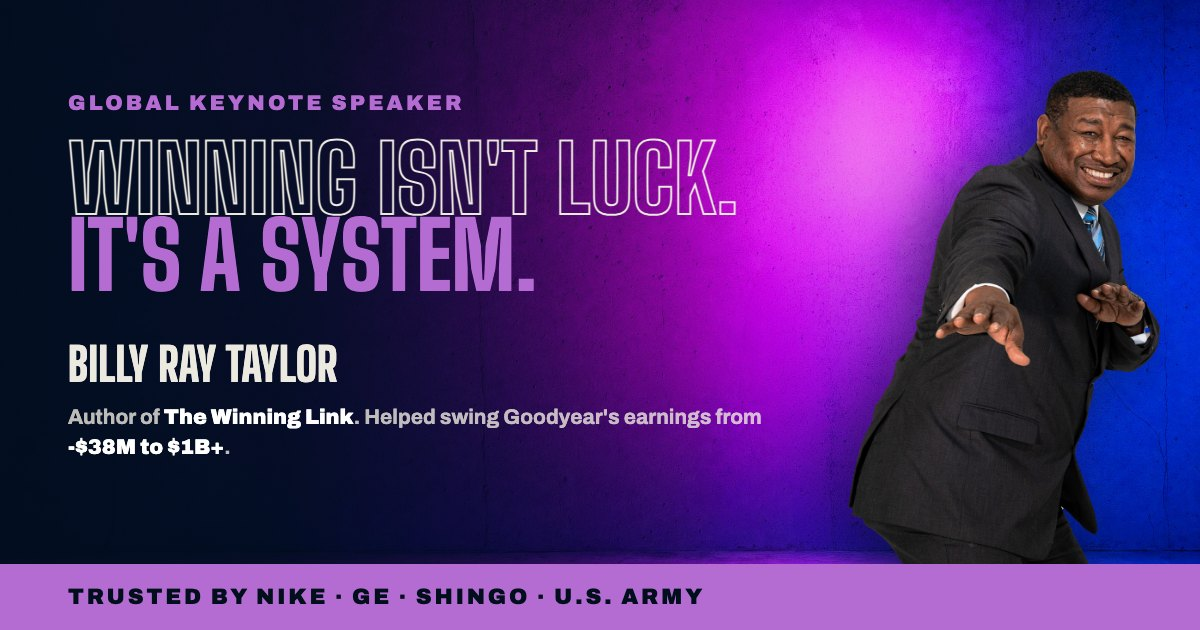
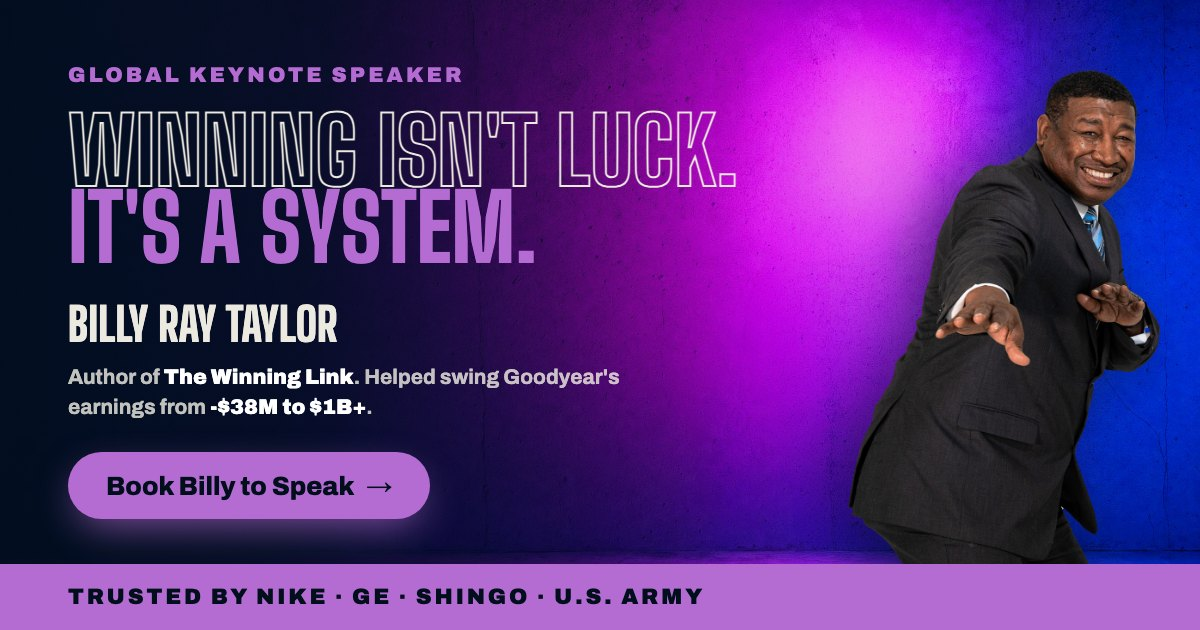
Senior polish pass across the site; OG card rebuilt around a CTA
Navigation: scrollspy highlights the active section with a purple dot;
skip-to-content link for keyboard users; theme-color meta tints mobile
chrome to the ink.

Interaction system: primary CTAs carry a purple glow and lift 2px on
hover before the press-down; playbook cards lift with their own accent
glow; the book straightens from its 2deg tilt on hover; marquee pauses
on hover and its loop no longer jumps half a gap (margins instead of
flex gap, so -50% lands exactly on the set boundary).

Hero: a breathing radial glow behind Billy, disabled under reduced
motion. Testimonials: swipe/drag on touch with velocity-based dismissal
and grab cursors, and arrow-key navigation, both taking permanent
control from the autoplay.

QA lows closed: utility separator contrast, headshot orphan at narrow
widths (2-up grid), accordion title overflow above 1200px.

Hero wall image preloaded. Verified the page renders complete with
JavaScript disabled.

OG image rebuilt with a conversion path: eyebrow, split headline, name,
credential line, and a purple Book Billy to Speak pill, trust band
below, Billy on the right.

Changed region(s): [[0.0308, 0.0905, 0.6475, 0.8746]]

diff --git a/css/style.css b/css/style.css
@@ -100,6 +100,20 @@ section { scroll-margin-top: 7.5rem; }
   letter-spacing: 0.002em;
 }
 
+.skip-link {
+  position: fixed;
+  top: -4rem;
+  left: 1rem;
+  z-index: 100;
+  background: var(--purple);
+  color: var(--ink);
+  font-weight: 700;
+  padding: 0.8rem 1.4rem;
+  border-radius: 999px;
+  transition: top 200ms var(--ease-out);
+}
+.skip-link:focus-visible { top: 1rem; }
+
 .visually-hidden {
   position: absolute;
   width: 1px; height: 1px;
@@ -184,10 +198,12 @@ section { scroll-margin-top: 7.5rem; }
   border: 2px solid transparent;
   cursor: pointer;
   text-decoration: none;
-  transition: transform 160ms var(--ease-out), background-color 200ms ease, border-color 200ms ease, color 200ms ease;
+  transition: transform 180ms var(--ease-out), background-color 200ms ease, border-color 200ms ease, color 200ms ease, box-shadow 250ms ease;
   will-change: transform;
 }
-.btn:active { transform: scale(0.97); }
+.btn:active { transform: translateY(0) scale(0.97); }
+.btn-accent { box-shadow: 0 10px 28px -10px rgba(181, 108, 210, 0.55); }
+.btn-paper { box-shadow: 0 10px 28px -12px rgba(1, 15, 29, 0.6); }
 
 .btn-accent { background: var(--purple); color: var(--ink); }
 .btn-paper { background: var(--paper); color: var(--ink); }
@@ -196,8 +212,15 @@ section { scroll-margin-top: 7.5rem; }
 .btn-ghost-paper { background: transparent; color: var(--txt-on-ink); border-color: rgba(236, 233, 224, 0.4); }
 
 @media (hover: hover) and (pointer: fine) {
-  .btn-accent:hover { background: var(--purple-hover); }
-  .btn-paper:hover { background: #FFFFFF; }
+  .btn-accent:hover {
+    background: var(--purple-hover);
+    transform: translateY(-2px);
+    box-shadow: 0 16px 36px -10px rgba(181, 108, 210, 0.75);
+  }
+  .btn-paper:hover {
+    background: #FFFFFF;
+    transform: translateY(-2px);
+  }
   .btn-ink:hover { background: var(--ink-3); }
   .btn-ghost-ink:hover { border-color: var(--ink); background: rgba(1, 15, 29, 0.05); }
   .btn-ghost-paper:hover { border-color: var(--txt-on-ink); background: rgba(236, 233, 224, 0.08); }
@@ -234,7 +257,7 @@ button:focus-visible {
 }
 .utility a { color: rgba(236, 233, 224, 0.82); }
 .utility .u-left { display: flex; gap: 1.1rem; align-items: center; }
-.utility .u-sep { opacity: 0.4; }
+.utility .u-sep { opacity: 0.6; }
 .utility .u-tag { color: var(--purple); font-weight: 700; letter-spacing: 0.04em; }
 @media (hover: hover) and (pointer: fine) {
   .utility a:hover { color: #FFFFFF; }
@@ -289,6 +312,23 @@ button:focus-visible {
 }
 @media (hover: hover) and (pointer: fine) {
   .nav-links a:not(.btn):hover { color: var(--purple); }
+}
+.nav-links a:not(.btn).active { color: var(--purple); }
+.nav-links a:not(.btn)::after {
+  content: "";
+  position: absolute;
+  left: 50%;
+  bottom: -0.55rem;
+  width: 4px;
+  height: 4px;
+  border-radius: 50%;
+  background: var(--purple);
+  transform: translateX(-50%) scale(0);
+  transition: transform 250ms var(--ease-out);
+}
+.nav-links a:not(.btn).active::after { transform: translateX(-50%) scale(1); }
+@media (hover: hover) and (pointer: fine) {
+  .nav-links-spacer-unused { display: none; }
 }
 .nav .btn { padding: 0.65rem 1.2rem; font-size: 0.92rem; }
 
@@ -388,6 +428,22 @@ button:focus-visible {
   will-change: transform;
   pointer-events: none;
 }
+.hero-figure::before {
+  content: "";
+  position: absolute;
+  inset: -12% -20%;
+  z-index: -1;
+  background: radial-gradient(50% 42% at 55% 46%, rgba(181, 108, 210, 0.5), rgba(143, 240, 220, 0.12) 60%, transparent 74%);
+  animation: hero-breathe 5.5s ease-in-out infinite alternate;
+  pointer-events: none;
+}
+@keyframes hero-breathe {
+  from { opacity: 0.65; transform: scale(1); }
+  to { opacity: 1; transform: scale(1.06); }
+}
+@media (prefers-reduced-motion: reduce) {
+  .hero-figure::before { animation: none; }
+}
 .hero-billy {
   height: 100%;
   width: auto;
@@ -481,9 +537,12 @@ button:focus-visible {
 .marquee-track {
   display: flex;
   align-items: center;
-  gap: clamp(3rem, 6vw, 5.5rem);
   width: max-content;
   animation: marquee 34s linear infinite;
+}
+.marquee-track img { margin-right: clamp(3rem, 6vw, 5.5rem); }
+@media (hover: hover) and (pointer: fine) {
+  .marquee:hover .marquee-track { animation-play-state: paused; }
 }
 .marquee-track img {
   height: clamp(2rem, 3vw, 2.6rem);
@@ -736,6 +795,12 @@ button:focus-visible {
   border-radius: 18px;
   overflow: hidden;
   background: linear-gradient(180deg, rgba(11, 24, 38, 0.92), rgba(4, 11, 19, 0.92));
+  transition: transform 300ms var(--ease-out), box-shadow 300ms ease;
+}
+@media (hover: hover) and (pointer: fine) {
+  .play-card:hover { transform: translateY(-3px); }
+  .pc-problem:hover { box-shadow: 0 30px 70px -26px rgba(181, 108, 210, 0.65); }
+  .pc-payoff:hover { box-shadow: 0 30px 70px -26px rgba(72, 167, 155, 0.7); }
 }
 .pc-problem {
   border: 1px solid rgba(181, 108, 210, 0.42);
@@ -870,10 +935,9 @@ button:focus-visible {
 .acc-content .acc-title {
   font-family: var(--font-display);
   text-transform: uppercase;
-  font-size: clamp(1.5rem, 2.4vw, 2.1rem);
+  font-size: clamp(1.4rem, 2vw, 1.9rem);
   margin-bottom: 0.7rem;
   color: var(--acc-c, var(--purple));
-  white-space: nowrap;
   font-weight: 800;
 }
 .acc-content p { color: var(--txt-on-ink-muted); font-size: 1rem; max-width: 34ch; margin: 0; }
@@ -1111,7 +1175,9 @@ button:focus-visible {
 }
 .raves-arrow:active { transform: scale(0.94); }
 
-.raves-viewport { overflow: hidden; }
+.raves-viewport { overflow: hidden; touch-action: pan-y; cursor: grab; }
+.raves-viewport.dragging { cursor: grabbing; }
+.raves-viewport.dragging .raves-track { transition: none; }
 .raves-track {
   display: flex;
   transition: transform 620ms var(--ease-in-out);
@@ -1178,6 +1244,10 @@ button:focus-visible {
   padding: clamp(1.5rem, 3vw, 2.75rem);
   box-shadow: 0 32px 72px -30px rgba(1, 15, 29, 0.35);
   rotate: 2deg;
+  transition: rotate 450ms var(--ease-out), box-shadow 450ms ease;
+}
+@media (hover: hover) and (pointer: fine) {
+  .book-shot:hover { rotate: 0deg; box-shadow: 0 40px 90px -30px rgba(1, 15, 29, 0.55); }
 }
 .book-shot img { width: 100%; }
 
@@ -1322,6 +1392,9 @@ button:focus-visible {
   gap: 1.2rem;
   max-width: 52rem;
 }
+@media (max-width: 700px) {
+  .headshot-row { grid-template-columns: repeat(2, 1fr); }
+}
 .headshot-row a {
   border-radius: 18px;
   overflow: hidden;
@@ -1360,6 +1433,10 @@ button:focus-visible {
     linear-gradient(150deg, var(--purple-deep) 0%, #3B2A66 52%, var(--ink-deep) 100%);
   padding: clamp(6.5rem, 12vw, 11rem) 0;
   text-align: center;
+}
+.book-billy .cta-win {
+  color: var(--mint);
+  text-shadow: 0 0 44px rgba(143, 240, 220, 0.45);
 }
 .book-billy h2 {
   font-size: clamp(4rem, 11vw, 9.5rem);

diff --git a/js/main.js b/js/main.js
@@ -45,6 +45,31 @@
     }
   });
 
+  /* ---------- Scrollspy ---------- */
+  var spyLinks = Array.prototype.filter.call(
+    document.querySelectorAll('.nav-links a[href^="#"]'),
+    function (a) { return !a.classList.contains("btn"); }
+  );
+  var spyMap = {};
+  spyLinks.forEach(function (a) {
+    var sec = document.querySelector(a.getAttribute("href"));
+    if (sec) spyMap[a.getAttribute("href").slice(1)] = a;
+  });
+  if ("IntersectionObserver" in window) {
+    var spy = new IntersectionObserver(function (entries) {
+      entries.forEach(function (en) {
+        if (!en.isIntersecting) return;
+        spyLinks.forEach(function (a) { a.classList.remove("active"); });
+        var link = spyMap[en.target.id];
+        if (link) link.classList.add("active");
+      });
+    }, { rootMargin: "-35% 0px -55% 0px" });
+    Object.keys(spyMap).forEach(function (id) {
+      var sec = document.getElementById(id);
+      if (sec) spy.observe(sec);
+    });
+  }
+
   /* ---------- Horizontal accordion (the 3 Deliberates) ---------- */
   var slices = Array.prototype.slice.call(document.querySelectorAll(".acc-slice"));
   function openSlice(target) {
@@ -98,6 +123,46 @@
   ravesSection.addEventListener("mouseleave", resumeAuto);
   ravesSection.addEventListener("focusin", pauseAuto);
   ravesSection.addEventListener("focusout", resumeAuto);
+  ravesSection.addEventListener("keydown", function (e) {
+    if (e.key !== "ArrowLeft" && e.key !== "ArrowRight") return;
+    userControlled = true;
+    clearInterval(autoTimer);
+    counter.setAttribute("aria-live", "polite");
+    goTo(current + (e.key === "ArrowRight" ? 1 : -1));
+    e.preventDefault();
+  });
+
+  /* touch / drag */
+  var viewport = document.querySelector(".raves-viewport");
+  var dragX = null, dragT = 0;
+  viewport.addEventListener("pointerdown", function (e) {
+    if (e.pointerType === "mouse" && e.button !== 0) return;
+    dragX = e.clientX;
+    dragT = Date.now();
+    viewport.classList.add("dragging");
+    viewport.setPointerCapture(e.pointerId);
+  });
+  viewport.addEventListener("pointermove", function (e) {
+    if (dragX === null) return;
+    var dx = e.clientX - dragX;
+    track.style.transform = "translateX(calc(-" + current * 100 + "% + " + dx + "px))";
+  });
+  function endDrag(e) {
+    if (dragX === null) return;
+    var dx = e.clientX - dragX;
+    var vel = Math.abs(dx) / Math.max(Date.now() - dragT, 1);
+    viewport.classList.remove("dragging");
+    dragX = null;
+    if (Math.abs(dx) > 60 || vel > 0.5) {
+      userControlled = true;
+      clearInterval(autoTimer);
+      goTo(current + (dx < 0 ? 1 : -1));
+    } else {
+      goTo(current);
+    }
+  }
+  viewport.addEventListener("pointerup", endDrag);
+  viewport.addEventListener("pointercancel", endDrag);
   restartAuto();
 
   /* ---------- Video: click to load ---------- */

diff --git a/index.html b/index.html
@@ -19,9 +19,11 @@
   <meta name="twitter:description" content="Author of The Winning Link. Trusted by Nike, GE, SHINGO, and the U.S. Army. Book Billy for your next event.">
   <meta name="twitter:image" content="https://taylormadecreative.github.io/billy-ray-taylor/assets/og-image.jpg">
 
+  <meta name="theme-color" content="#010F1D">
   <link rel="icon" type="image/svg+xml" href="favicon.svg">
   <link rel="apple-touch-icon" href="apple-touch-icon.png">
 
+  <link rel="preload" href="assets/hero-wall.jpg" as="image">
   <link rel="preload" href="assets/fonts/BigShouldersDisplay-var.woff2" as="font" type="font/woff2" crossorigin>
   <link rel="preload" href="assets/fonts/Archivo-var.woff2" as="font" type="font/woff2" crossorigin>
   <link rel="stylesheet" href="css/style.css">
@@ -44,6 +46,8 @@
   </script>
 </head>
 <body>
+
+  <a class="skip-link" href="#main">Skip to content</a>
 
   <div class="utility" id="top">
     <div class="utility-inner">
@@ -74,7 +78,7 @@
     </div>
   </header>
 
-  <main>
+  <main id="main">
 
     <!-- Attention -->
     <section class="hero">
@@ -435,7 +439,7 @@
     <!-- Action: big CTA -->
     <section class="book-billy" id="book-billy">
       <div class="container">
-        <h2 class="display" data-reveal>Ready to win?</h2>
+        <h2 class="display" data-reveal>Ready to <span class="cta-win">win?</span></h2>
         <p data-reveal>Book Billy Ray Taylor for your next conference, kickoff, or leadership summit. He's ready to help your organization win.</p>
         <div class="book-billy-ctas" data-reveal>
           <a class="btn btn-paper" href="mailto:info@linkedxl.com?subject=Booking%20Inquiry%3A%20Billy%20Ray%20Taylor">Start the Conversation</a>

diff --git a/og/og.html b/og/og.html
@@ -37,7 +37,7 @@
   .content {
     position: absolute;
     left: 68px;
-    top: 92px;
+    top: 64px;
     width: 720px;
     z-index: 2;
   }
@@ -62,7 +62,7 @@
   }
   h1 .l2 { display: block; color: #B56CD2; }
   .name {
-    margin-top: 42px;
+    margin-top: 30px;
     font-family: "Big Shoulders Display", "Arial Narrow", sans-serif;
     font-weight: 800;
     font-size: 46px;
@@ -73,10 +73,25 @@
     margin-top: 10px;
     font-weight: 700;
     font-size: 21px;
-    color: rgba(236,233,224,0.8);
+    color: rgba(236,233,224,0.82);
     line-height: 1.45;
+    max-width: 620px;
   }
   .what strong { color: #FFFFFF; }
+  .cta {
+    display: inline-flex;
+    align-items: center;
+    gap: 12px;
+    margin-top: 30px;
+    background: #B56CD2;
+    color: #010F1D;
+    font-weight: 800;
+    font-size: 26px;
+    padding: 18px 38px;
+    border-radius: 999px;
+    box-shadow: 0 14px 40px -10px rgba(181,108,210,0.75);
+  }
+  .cta .arrow { font-weight: 800; }
   .billy {
     position: absolute;
     right: 40px;
@@ -112,6 +127,7 @@
       <h1><span class="l1">Winning isn't luck.</span><span class="l2">It's a system.</span></h1>
       <p class="name">Billy Ray Taylor</p>
       <p class="what">Author of <strong>The Winning Link</strong>. Helped swing Goodyear's earnings from <strong>-$38M to $1B+</strong>.</p>
+      <p class="cta">Book Billy to Speak <span class="arrow">&#8594;</span></p>
     </div>
     <p class="band">TRUSTED BY NIKE · GE · SHINGO · U.S. ARMY</p>
   </div>
